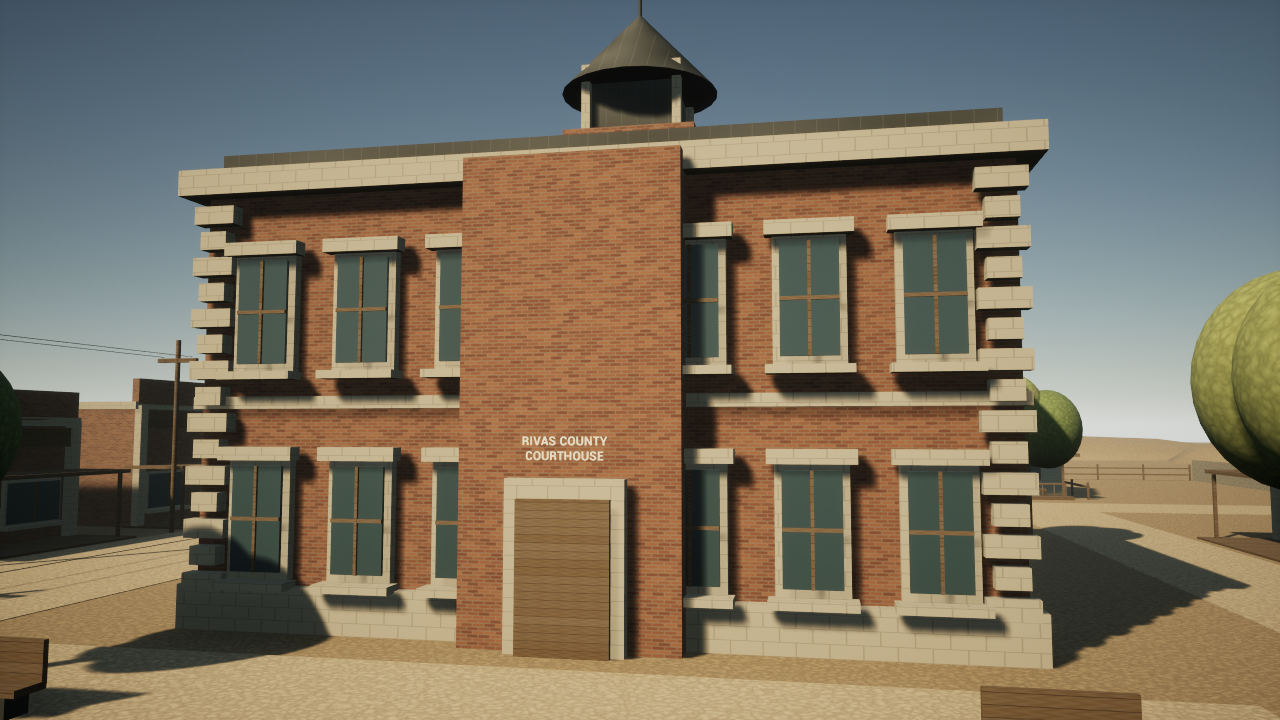
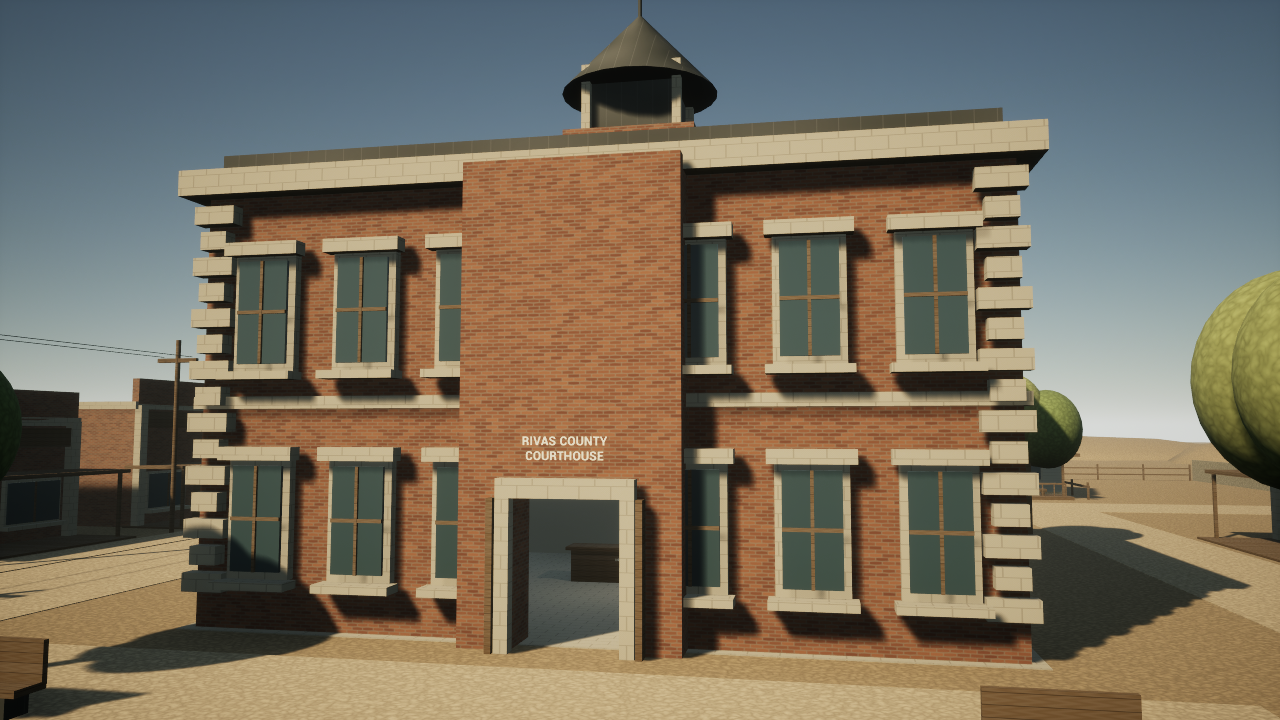
Open courthouse clerk lobby and add Inez report review

diff --git a/Source/CountyLine/World/CLPrototypeGameMode.cpp b/Source/CountyLine/World/CLPrototypeGameMode.cpp
@@ -401,6 +401,33 @@ void ACLPrototypeGameMode::RunSmokeTest()
             Press(EKeys::Escape);
         }
         PC->Case()->Report=BeforePruitt;
+        WalkRoute(FVector(-350,-180,92));WalkRoute(FVector(-850,-180,92));WalkRoute(FVector(-850,-800,92));WalkRoute(FVector(-3900,-800,92));
+        WalkRoute(FVector(-3900,100,92));WalkRoute(FVector(-3900,700,92));WalkRoute(FVector(-3900,1200,92));
+        Check(bRouteClear,TEXT("Courthouse doorway and lobby provide a grounded collision-clear route to the clerk"));
+        // The swept route advances positions without frames; settle the shoulder camera before aiming.
+        const bool bClerkCameraLag=Reed->CameraArm->bEnableCameraLag;Reed->CameraArm->bEnableCameraLag=false;
+        PC->SetControlRotation(FRotator(-5,90,0));Reed->CameraArm->TickComponent(1.f,LEVELTICK_All,nullptr);PC->PlayerCameraManager->UpdateCamera(1.f);
+        Reed->CameraArm->bEnableCameraLag=bClerkCameraLag;
+        Check(PC->ReachableFieldAction()==7,TEXT("Inez is reachable through the normal interaction gate across the counter"));
+        for(const ECLReportStatus Disposition:{ECLReportStatus::Draft,ECLReportStatus::Signed,ECLReportStatus::Held})
+        {
+            FCLReportState Fixture;Fixture.bRead=true;Fixture.FieldNotes.Add(TEXT("ResidentAccount"));
+            if(Disposition!=ECLReportStatus::Draft) Fixture.Submit(Disposition);
+            PC->Case()->Report=Fixture;PC->Interact();
+            Check(PC->IsBookOpen() && PC->IsMoveInputIgnored(),TEXT("Clerk interaction opens a focused report review"));
+            if(Disposition!=ECLReportStatus::Draft) Press(EKeys::Gamepad_FaceButton_Bottom);
+            Check(FCLReportState::StaticStruct()->CompareScriptStruct(&PC->Case()->Report,&Fixture,0),TEXT("Presenting a report to Inez preserves all evidence and the original carbon"));
+            Press(EKeys::Gamepad_FaceButton_Right);
+            Check(!PC->IsBookOpen() && !PC->IsMoveInputIgnored(),TEXT("Controller leaves the clerk counter and restores walking"));
+        }
+        PC->Case()->Report=BeforePruitt;
+        PC->SetControlRotation(FRotator(0,-90,0));Reed->CameraArm->TickComponent(1.f,LEVELTICK_All,nullptr);PC->PlayerCameraManager->UpdateCamera(1.f);
+        Check(!PC->CanReachClerk(),TEXT("Clerk cannot be addressed while looking away"));
+        WalkRoute(FVector(-3900,700,92));
+        Check(!PC->CanReachClerk(),TEXT("Clerk rejects interaction beyond counter range"));
+        WalkRoute(FVector(-3900,100,92));WalkRoute(FVector(-3900,-800,92));WalkRoute(FVector(-850,-800,92));WalkRoute(FVector(-850,-180,92));WalkRoute(FVector(-100,-180,92));WalkRoute(FVector(-20,-110,92));
+        Check(bRouteClear && PC->IsAtDesk() && FCLReportState::StaticStruct()->CompareScriptStruct(&PC->Case()->Report,&BeforePruitt,0),TEXT("Clerk visit returns to the jail desk with the full report unchanged"));
+
 
 
     }
@@ -431,7 +458,7 @@ void ACLPrototypeGameMode::CaptureTownReview()
     const FVector Targets[]={FVector(-3300,1700,250),FVector(-560,0,260),FVector(-4000,-2330,110),FVector(-2700,5650,150),FVector(-3900,1200,650),FVector(-5500,5550,230),FVector(-6550,1400,210),FVector(-950,2400,240),FVector(-4700,-150,85),FVector(-5350,4930,130)};
     const TCHAR* Names[]={TEXT("TownOverview.png"),TEXT("JailFrontage.png"),TEXT("LangLobby.png"),TEXT("ResidentialLane.png"),TEXT("CourthouseDetail.png"),TEXT("HomeDetail.png"),TEXT("WestMarketStreet.png"),TEXT("CourtStreetShops.png"),TEXT("SquareSeating.png"),TEXT("NorthLaneResident.png")};
     const int32 View=TownReviewStep/2;
-    if(View>=UE_ARRAY_COUNT(Positions)+8) {GetWorldTimerManager().ClearTimer(TownReviewTimer);FPlatformMisc::RequestExitWithStatus(false,0);return;}
+    if(View>=UE_ARRAY_COUNT(Positions)+12) {GetWorldTimerManager().ClearTimer(TownReviewTimer);FPlatformMisc::RequestExitWithStatus(false,0);return;}
     if(View>=UE_ARRAY_COUNT(Positions))
     {
         // Capture the actual Slate conversation and Book in the isolated fixture.
@@ -458,18 +485,30 @@ void ACLPrototypeGameMode::CaptureTownReview()
             }
             else if(Page==3) {Press(EKeys::Gamepad_FaceButton_Bottom);PC->Case()->bTypedCopy=true;PC->ShowBook();}
             else if(Page==4) Press(EKeys::Gamepad_RightShoulder);
-            else
+            else if(Page<8)
             {
                 PC->CloseBook();FCLReportState Fixture;Fixture.bRead=true;Fixture.FieldNotes.Add(TEXT("ResidentAccount"));
                 if(Page>5) Fixture.Submit(Page==6?ECLReportStatus::Signed:ECLReportStatus::Held);
                 PC->Case()->Report=Fixture;PC->ShowBook(false,false,true);
             }
+            else
+            {
+                PC->CloseBook();
+                TownReviewCamera->SetActorLocationAndRotation(FVector(-4100,770,185),(FVector(-3900,1400,145)-FVector(-4100,770,185)).Rotation());
+                if(Page>8)
+                {
+                    FCLReportState Fixture;Fixture.bRead=true;Fixture.FieldNotes.Add(TEXT("ResidentAccount"));
+                    if(Page>9) Fixture.Submit(Page==10?ECLReportStatus::Signed:ECLReportStatus::Held);
+                    PC->Case()->Report=Fixture;PC->ShowBook(false,false,false,7);
+                    if(Page>9) Press(EKeys::Gamepad_FaceButton_Bottom);
+                }
+            }
             PC->SetPause(false); // Let the QA capture timer advance; normal dialogue stays paused.
         }
         else
         {
-            const TCHAR* Pages[]={TEXT("ResidentGreeting.png"),TEXT("ResidentAccount.png"),TEXT("ResidentHandwritten.png"),TEXT("ResidentBook.png"),TEXT("ResidentPeople.png"),TEXT("PruittResidentDraft.png"),TEXT("PruittResidentSigned.png"),TEXT("PruittResidentHeld.png")};
-            FScreenshotRequest::RequestScreenshot(FPaths::Combine(FPaths::ProjectSavedDir(),TEXT("Screenshots/TownReview"),Pages[Page]),true,false);
+            const TCHAR* Pages[]={TEXT("ResidentGreeting.png"),TEXT("ResidentAccount.png"),TEXT("ResidentHandwritten.png"),TEXT("ResidentBook.png"),TEXT("ResidentPeople.png"),TEXT("PruittResidentDraft.png"),TEXT("PruittResidentSigned.png"),TEXT("PruittResidentHeld.png"),TEXT("ClerkLobby.png"),TEXT("ClerkDraft.png"),TEXT("ClerkSigned.png"),TEXT("ClerkHeld.png")};
+            FScreenshotRequest::RequestScreenshot(FPaths::Combine(FPaths::ProjectSavedDir(),TEXT("Screenshots/TownReview"),Pages[Page]),Page!=8,false);
         }
         ++TownReviewStep;return;
     }

diff --git a/Source/CountyLine/World/CLPecosBend.cpp b/Source/CountyLine/World/CLPecosBend.cpp
@@ -169,13 +169,62 @@ ACLPecosBend::ACLPecosBend()
     Shape(TEXT("CourthouseWalk"),FVector(-3900,-100,1),FVector(2400,760,4),TEXT("RoadDust"),TEXT("Cube"),false);
     // Reference landmark: brick county courthouse, two storeys and a cupola.
     const FVector Court(-3900,1200,0);
-    Shape(TEXT("CourthouseMass"),Court+FVector(0,0,510),FVector(1800,1400,1020),TEXT("Brick"));
-    Shape(TEXT("CourthouseBase"),Court+FVector(0,0,50),FVector(1860,1460,100),TEXT("Plaster"));
+    Shape(TEXT("CourthouseMass"),Court+FVector(0,0,700),FVector(1800,1400,640),TEXT("Brick"));
+    Shape(TEXT("CourthouseBase"),Court+FVector(0,0,-12),FVector(1860,1460,24),TEXT("Plaster"));
     Shape(TEXT("CourthouseCornice"),Court+FVector(0,0,1020),FVector(1900,1500,60),TEXT("Plaster"));
     Shape(TEXT("CourthouseRoof"),Court+FVector(0,0,1070),FVector(1760,1370,60),TEXT("Iron"));
-    Shape(TEXT("CourtCentralBay"),Court+FVector(0,-735,515),FVector(470,100,1030),TEXT("Brick"));
-    Shape(TEXT("CourtEntryFrame"),Court+FVector(0,-800,175),FVector(250,30,350),TEXT("Plaster"));
-    Shape(TEXT("CourtEntryDoor"),Court+FVector(0,-820,155),FVector(195,16,310),TEXT("Timber"));
+    // Ground-floor lobby replaces the old solid block; the exterior footprint stays put.
+    for(int32 Side:{-1,1})
+    {
+        Shape(FString::Printf(TEXT("CourtLobbySide%d"),Side),Court+FVector(Side*880,0,190),FVector(40,1400,380),TEXT("Brick"));
+        Shape(FString::Printf(TEXT("CourtLobbyFront%d"),Side),Court+FVector(Side*510,-680,190),FVector(780,40,380),TEXT("Brick"));
+        Shape(FString::Printf(TEXT("CourtBayPier%d"),Side),Court+FVector(Side*177.5,-735,175),FVector(115,100,350),TEXT("Brick"));
+        Shape(FString::Printf(TEXT("CourtDoorJamb%d"),Side),Court+FVector(Side*130,-800,155),FVector(30,30,310),TEXT("Plaster"));
+        Shape(FString::Printf(TEXT("CourtOpenDoor%d"),Side),Court+FVector(Side*155,-735,155),FVector(14,170,310),TEXT("Timber"));
+        Shape(FString::Printf(TEXT("CourtInnerSide%d"),Side),Court+FVector(Side*856,0,185),FVector(6,1320,370),TEXT("Plaster"),TEXT("Cube"),false);
+        Shape(FString::Printf(TEXT("CourtLobbyBench%d"),Side),Court+FVector(Side*650,-200,45),FVector(80,300,14),TEXT("Timber"));
+        for(int32 Leg:{-1,1}) Shape(FString::Printf(TEXT("CourtLobbyBenchLeg%d_%d"),Side,Leg),Court+FVector(Side*650,-200+Leg*115,20),FVector(60,14,40),TEXT("Timber"));
+    }
+    Shape(TEXT("CourtCentralBay"),Court+FVector(0,-735,685),FVector(470,100,670),TEXT("Brick"));
+    Shape(TEXT("CourtDoorHeader"),Court+FVector(0,-800,330),FVector(290,30,40),TEXT("Plaster"));
+    Shape(TEXT("CourtLobbyHeader"),Court+FVector(0,-680,345),FVector(240,40,70),TEXT("Brick"));
+    Shape(TEXT("CourtLobbyBack"),Court+FVector(0,680,190),FVector(1800,40,380),TEXT("Brick"));
+    Shape(TEXT("CourtInnerBack"),Court+FVector(0,656,185),FVector(1700,6,370),TEXT("Plaster"),TEXT("Cube"),false);
+    Shape(TEXT("CourtLobbyCeiling"),Court+FVector(0,0,377),FVector(1760,1360,6),TEXT("Plaster"),TEXT("Cube"),false);
+    Shape(TEXT("CourtCounter"),Court+FVector(0,100,46),FVector(440,80,92),TEXT("Timber"));
+    Shape(TEXT("CourtCounterTop"),Court+FVector(0,100,97),FVector(470,96,10),TEXT("Timber"));
+    Shape(TEXT("CourtCounterPaper"),Court+FVector(-120,75,103),FVector(35,45,2),TEXT("PaperLabel"),TEXT("Cube"),false);
+    Shape(TEXT("CourtStamp"),Court+FVector(-70,85,111),FVector(12,12,16),TEXT("Brass"),TEXT("Cube"),false);
+    Sign(TEXT("ClerkCounterName"),TEXT("INEZ PADILLA  /  COUNTY CLERK"),Court+FVector(0,47,68),-90,13);
+    Sign(TEXT("ClerkOfficeLabel"),TEXT("COUNTY CLERK\nREPORTS AND MINUTES"),Court+FVector(0,648,265),-90,22);
+    auto* LobbyLight=CreateDefaultSubobject<UPointLightComponent>(TEXT("CourtLobbyLight"));
+    LobbyLight->SetupAttachment(RootComponent);LobbyLight->SetRelativeLocation(Court+FVector(0,-80,325));
+    LobbyLight->SetIntensity(1800);LobbyLight->SetAttenuationRadius(1450);LobbyLight->SetLightColor(FLinearColor(1.f,.88f,.72f));LobbyLight->SetMobility(EComponentMobility::Movable);
+    Shape(TEXT("CourtCeilingLamp"),Court+FVector(0,-80,345),FVector(32,32,20),TEXT("Linen"),TEXT("Sphere"),false);
+    // Original static proxy, approximately 162 cm; unique animated character art comes later.
+    const FVector Inez= Court+FVector(0,200,0);
+    ClerkCollision=CreateDefaultSubobject<UCapsuleComponent>(TEXT("ClerkCollision"));
+    ClerkCollision->SetupAttachment(RootComponent);ClerkCollision->SetRelativeLocation(Inez+FVector(0,0,81));
+    ClerkCollision->InitCapsuleSize(28,81);ClerkCollision->SetCollisionProfileName(TEXT("BlockAllDynamic"));
+    auto Figure=[this,Inez](const TCHAR* Name,FVector Offset,FVector Size,const TCHAR* Material,const TCHAR* Mesh=TEXT("Sphere"))
+    {return Shape(Name,Inez+Offset,Size,Material,Mesh,false);};
+    Figure(TEXT("InezSkirt"),FVector(0,0,53),FVector(48,37,90),TEXT("Trouser"),TEXT("Cone"));
+    Figure(TEXT("InezBlouse"),FVector(0,0,110),FVector(42,28,48),TEXT("Linen"));
+    Figure(TEXT("InezNeck"),FVector(0,0,139),FVector(10,10,13),TEXT("Skin"));
+    Figure(TEXT("InezHead"),FVector(0,0,149),FVector(19,18,25),TEXT("Skin"));
+    Figure(TEXT("InezHair"),FVector(0,3,154),FVector(20,17,17),TEXT("Hair"));
+    Figure(TEXT("InezBun"),FVector(0,12,148),FVector(12,10,12),TEXT("Hair"));
+    Figure(TEXT("InezNose"),FVector(0,-9,148),FVector(4,5,6),TEXT("Skin"));
+    Figure(TEXT("InezMouth"),FVector(0,-8.5,142),FVector(6,1.5,1.5),TEXT("Mouth"));
+    for(int32 Side:{-1,1})
+    {
+        Figure(*FString::Printf(TEXT("InezEye%d"),Side),FVector(Side*4,-8,152),FVector(3,2,2),TEXT("EyeWhite"));
+        Figure(*FString::Printf(TEXT("InezIris%d"),Side),FVector(Side*4,-9,152),FVector(1.5,1,1.5),TEXT("Iris"));
+        Figure(*FString::Printf(TEXT("InezSleeve%d"),Side),FVector(Side*24,-5,111),FVector(13,15,38),TEXT("Linen"));
+        Figure(*FString::Printf(TEXT("InezHand%d"),Side),FVector(Side*24,-12,92),FVector(8,11,13),TEXT("Skin"));
+        Figure(*FString::Printf(TEXT("InezShoe%d"),Side),FVector(Side*10,-4,6),FVector(12,25,12),TEXT("Leather"));
+    }
+
     Shape(TEXT("CourtFloorBand"),Court+FVector(0,0,510),FVector(1830,1430,28),TEXT("Plaster"),TEXT("Cube"),false);
     for(int32 Side:{-1,1})
     {

diff --git a/Source/CountyLine/UI/SCLCountyBook.cpp b/Source/CountyLine/UI/SCLCountyBook.cpp
@@ -164,10 +164,23 @@ void SCLCountyBook::Rebuild(int32 FocusOverride)
     if(FieldAction>=0)
     {
         const bool bInspect=Owner->IsInspecting();
-        Line(FieldAction==6?TEXT("PECOS BEND / NORTH LANE"):FieldAction==5?TEXT("PECOS BEND / LANG'S BOARDINGHOUSE"):TEXT("BEND LATERAL / FIELD STUDY"),18,true);
-        const TCHAR* Titles[]={TEXT("Back to Pecos Bend"),TEXT("Salazar's account"),TEXT("A bottle by the bank"),TEXT("The ditch bank"),TEXT("The road to Bend Lateral"),TEXT("Rooms and board"),TEXT("A River Road account")};
+        Line(FieldAction==7?TEXT("COURTHOUSE / COUNTY CLERK"):FieldAction==6?TEXT("PECOS BEND / NORTH LANE"):FieldAction==5?TEXT("PECOS BEND / LANG'S BOARDINGHOUSE"):TEXT("BEND LATERAL / FIELD STUDY"),18,true);
+        const TCHAR* Titles[]={TEXT("Back to Pecos Bend"),TEXT("Salazar's account"),TEXT("A bottle by the bank"),TEXT("The ditch bank"),TEXT("The road to Bend Lateral"),TEXT("Rooms and board"),TEXT("A River Road account"),TEXT("The clerk's counter")};
         Line(Titles[FieldAction],bInspect?32:40);
-        if(FieldAction==6)
+        if(FieldAction==7)
+        {
+            if(Report.Status==ECLReportStatus::Draft || ConversationStep>0)
+            {
+                Line(Report.ClerkResponse(),24);
+                Line(TEXT("Reviewing the carbon does not change the report or save the Book. Write the date at the jail desk."),19,true);
+            }
+            else
+            {
+                Line(TEXT("INEZ PADILLA\nLet me see the carbon, Sheriff. We will keep what you signed separate from what you learned afterward."),24);
+                Page->AddSlot().AutoHeight()[Button(Report.Status==ECLReportStatus::Signed?TEXT("PRESENT THE SIGNED REPORT"):TEXT("PRESENT THE HELD REPORT"),[this]{ConversationStep=1;Rebuild(0);})];
+            }
+        }
+        else if(FieldAction==6)
         {
             if(Report.FieldNotes.Contains(TEXT("ResidentAccount")))
             {
@@ -421,6 +434,7 @@ void SCLCountyBook::Rebuild(int32 FocusOverride)
         Line(TEXT("PLACES ENTERED IN THE BOOK"),20,true);
         for(FName Id : {FName(TEXT("JailOffice")),FName(TEXT("CourtStreet")),FName(TEXT("LangHouse")),FName(TEXT("CountyRoad")),FName(TEXT("BendLateral"))})
             if(State->World.IsLocationDiscovered(Id)) Line(Id==TEXT("JailOffice")?TEXT("Jail office / Pecos Bend"):Id==TEXT("CourtStreet")?TEXT("Court Street / courthouse square"):Id==TEXT("LangHouse")?TEXT("Lang's / rooms and board"):Id==TEXT("CountyRoad")?TEXT("Road to Bend Lateral"):TEXT("Bend Lateral / irrigation bank"),22);
+        Line(TEXT("The courthouse south entrance opens from the square. Inez Padilla is at the clerk counter inside."),20);
         Line(TEXT("North Lane runs behind the courthouse and shops. The resident is at the west house, north of the market row."),20);
         Line(TEXT("Discoveries are kept when you write the date at the desk. This first route is a compact study of the county."),18,true);
     }
@@ -430,7 +444,7 @@ void SCLCountyBook::Rebuild(int32 FocusOverride)
         if(Report.FieldNotes.Contains(TEXT("ResidentAccount"))) Line(TEXT("RIVER ROAD RESIDENT / Met on North Lane\nSays families use the bank path to reach fields. Did not witness the death. Account entered with the Bend Lateral notes."));
         Line(TEXT("SAM REED  /  Acting Sheriff\nThe name on the door is mine, for now."));
         Line(TEXT("PRUITT  /  Deputy\nWaiting in the jail office. He brought the report to my attention."));
-        Line(TEXT("INEZ PADILLA  /  County Clerk\nShe will see the carbon before Helm does."));
+        Line(TEXT("INEZ PADILLA  /  County Clerk\nAt the courthouse clerk counter. She reviews the carbon before Helm sees it."));
         Line(TEXT("SALAZAR  /  Commissioner\nRiver Road. He found the man at the lateral."));
     }
     else

diff --git a/Source/CountyLine/Player/CLPlayerController.cpp b/Source/CountyLine/Player/CLPlayerController.cpp
@@ -43,7 +43,7 @@ void ACLPlayerController::BeginPlay()
         +SOverlay::Slot().HAlign(HAlign_Center).VAlign(VAlign_Bottom).Padding(24,24,24,88)
         [SNew(SBorder).Padding(14).BorderBackgroundColor(FLinearColor(0.035f,0.03f,0.02f,0.9f))
             .Visibility_Lambda([this]{return (bPromptAvailable||bDeputyAvailable||ReachableFieldAction()>=0)&&!IsBookOpen()?EVisibility::HitTestInvisible:EVisibility::Collapsed;})
-            [SNew(STextBlock).Text_Lambda([this]{const int32 Field=ReachableFieldAction();if(Field>=0) {const TCHAR* Names[]={TEXT("Return to the jail office"),TEXT("Speak with Salazar"),TEXT("Inspect the bottle"),TEXT("Examine the ditch bank"),TEXT("Read the road directions"),TEXT("Read the guest register"),TEXT("Speak with the River Road resident")};return FText::FromString(FString(TEXT("[ E / A ]   "))+Names[Field]);}return FText::FromString(bDeputyAvailable?TEXT("[ E / A ]   Talk   ·   Deputy Pruitt"):TEXT("[ E / A ]   Read   ·   Reed's report"));}).Font(FCoreStyle::GetDefaultFontStyle("Regular",24)).ColorAndOpacity(FLinearColor(0.95f,0.86f,0.65f))]]
+            [SNew(STextBlock).Text_Lambda([this]{const int32 Field=ReachableFieldAction();if(Field>=0) {const TCHAR* Names[]={TEXT("Return to the jail office"),TEXT("Speak with Salazar"),TEXT("Inspect the bottle"),TEXT("Examine the ditch bank"),TEXT("Read the road directions"),TEXT("Read the guest register"),TEXT("Speak with the River Road resident"),TEXT("Speak with Inez Padilla")};return FText::FromString(FString(TEXT("[ E / A ]   "))+Names[Field]);}return FText::FromString(bDeputyAvailable?TEXT("[ E / A ]   Talk   ·   Deputy Pruitt"):TEXT("[ E / A ]   Read   ·   Reed's report"));}).Font(FCoreStyle::GetDefaultFontStyle("Regular",24)).ColorAndOpacity(FLinearColor(0.95f,0.86f,0.65f))]]
         +SOverlay::Slot().HAlign(HAlign_Center).VAlign(VAlign_Bottom).Padding(24)
         [SNew(STextBlock).Text(FText::FromString(TEXT("WASD / LS  Walk     Mouse / RS  Look\nE / A  Interact     Tab / View  Book     Esc / Menu  Pause"))).Justification(ETextJustify::Center).Font(FCoreStyle::GetDefaultFontStyle("Regular",20)).ShadowOffset(FVector2D(1,1)).ColorAndOpacity(FLinearColor(0.93f,0.88f,0.77f))];
     GEngine->GameViewport->AddViewportWidgetContent(HUD.ToSharedRef(),0);
@@ -133,6 +133,16 @@ bool ACLPlayerController::CanReachResident() const
     FHitResult Hit;
     FCollisionQueryParams Params(SCENE_QUERY_STAT(ResidentInteraction),false,GetPawn());
     return !GetWorld()->LineTraceSingleByChannel(Hit,Eye,Target,ECC_Visibility,Params) || Hit.GetComponent()==Town->ResidentCollision;
+}
+
+bool ACLPlayerController::CanReachClerk() const
+{
+    if(!Town.IsValid() || !GetPawn()) return false;
+    FVector Eye;FRotator View;GetPlayerViewPoint(Eye,View);
+    const FVector Target=Town->ClerkLocation();
+    if(!WithinInteractionGate(GetPawn()->GetActorLocation(),Eye,View.Vector(),Target)) return false;
+    FHitResult Hit;FCollisionQueryParams Params(SCENE_QUERY_STAT(ClerkInteraction),false,GetPawn());
+    return !GetWorld()->LineTraceSingleByChannel(Hit,Eye,Target,ECC_Visibility,Params) || Hit.GetComponent()==Town->ClerkCollision;
 }
 
 FString ACLPlayerController::ObjectiveText() const
@@ -239,6 +249,7 @@ int32 ACLPlayerController::ReachableFieldAction() const
 {
     if(!GetPawn() || !Bend.IsValid()) return -1;
     FVector Eye; FRotator View; GetPlayerViewPoint(Eye,View);
+    if(CanReachClerk()) return 7;
     if(CanReachResident()) return 6;
     if(Town.IsValid() && WithinInteractionGate(GetPawn()->GetActorLocation(),Eye,View.Vector(),Town->RegisterLocation()))
     {

diff --git a/Source/CountyLine/Paper/CLCaseState.cpp b/Source/CountyLine/Paper/CLCaseState.cpp
@@ -101,6 +101,20 @@ bool FCLReportState::FileFollowup(ECLFollowupOutcome Outcome)
     SupplementFacts=FollowupFacts;FollowupOutcome=Outcome;return true;
 }
 
+FString FCLReportState::ClerkResponse() const
+{
+    if(Status==ECLReportStatus::Draft)
+        return TEXT("INEZ PADILLA\nThis report is unsigned, Sheriff. Read it at the jail desk, choose what belongs in it, then sign it or hold it for inquiry. I need your disposition before I can review the carbon.");
+    FString Reply=Status==ECLReportStatus::Signed?
+        TEXT("INEZ PADILLA\nSigned by S. Reed. That is the disposition on this carbon. A signature records what you put forward; it does not settle the cause of death."):
+        TEXT("INEZ PADILLA\nHeld for inquiry. The carbon records that you left this matter open. The unanswered questions belong with it, not under a different closing line.");
+    Reply+=FString::Printf(TEXT("\n\nThis copy has %d included fact(s) and %d omitted. The original wording stays as submitted."),IncludedFacts.Num(),OmittedFacts.Num());
+    if(FieldNotes.Contains(TEXT("ResidentAccount")))
+        Reply+=IncludedFacts.Contains(TEXT("ResidentAccount"))?TEXT(" The resident's account is included."):OmittedFacts.Contains(TEXT("ResidentAccount"))?TEXT(" The resident's account was omitted; your Book still keeps it."):TEXT(" The resident's later account is in your Book, not on this carbon.");
+    if(FollowupOutcome!=ECLFollowupOutcome::None) Reply+=TEXT(" Your separate follow-up entry leaves this original carbon intact.");
+    return Reply;
+}
+
 FString FCLReportState::PruittResidentResponse() const
 {
     const FName Account(TEXT("ResidentAccount"));

diff --git a/Source/CountyLine/Tests/CLClerkTests.cpp b/Source/CountyLine/Tests/CLClerkTests.cpp
@@ -1,0 +1,26 @@
+#if WITH_DEV_AUTOMATION_TESTS
+#include "Misc/AutomationTest.h"
+#include "Paper/CLCaseState.h"
+IMPLEMENT_SIMPLE_AUTOMATION_TEST(FCLClerkReviewTest,"CountyLine.Report.ClerkReview",EAutomationTestFlags::EditorContext|EAutomationTestFlags::EngineFilter)
+bool FCLClerkReviewTest::RunTest(const FString& Parameters)
+{
+    FCLReportState Draft;
+    TestTrue(TEXT("Clerk refuses unsigned report"),Draft.ClerkResponse().Contains(TEXT("unsigned")));
+    for(const ECLReportStatus Status:{ECLReportStatus::Signed,ECLReportStatus::Held})
+    for(const bool bInclude:{false,true})
+    for(const bool bBefore:{false,true})
+    {
+        FCLReportState R;R.bRead=true;R.bIncludeFieldNotes=bInclude;
+        if(bBefore) R.FieldNotes.Add(TEXT("ResidentAccount"));
+        TestTrue(TEXT("Report submits"),R.Submit(Status));
+        R.FieldNotes.AddUnique(TEXT("ResidentAccount"));
+        const FCLReportState Before=R;
+        const FString Reply=R.ClerkResponse();
+        TestTrue(TEXT("Clerk recognizes disposition"),Reply.Contains(Status==ECLReportStatus::Signed?TEXT("Signed by S. Reed"):TEXT("Held for inquiry")));
+        TestTrue(TEXT("Clerk reads the actual carbon"),Reply.Contains(bBefore?(bInclude?TEXT("account is included"):TEXT("account was omitted")):TEXT("later account")));
+        TestTrue(TEXT("Repeated review is stable"),Reply==R.ClerkResponse());
+        TestTrue(TEXT("Review changes no report field"),FCLReportState::StaticStruct()->CompareScriptStruct(&R,&Before,0));
+    }
+    return true;
+}
+#endif

diff --git a/Scripts/draw_town_layout.py b/Scripts/draw_town_layout.py
@@ -35,7 +35,7 @@ for name, color in [('TownGround','#e1d2ae'), ('ResidentialGround','#e1d2ae'), (
 court = numbers(re.search(r'const FVector Court\(([^)]+)\)', source)[1])
 court_size = numbers(re.search(r'Shape\(TEXT\("CourthouseMass"\).*?FVector\(([^)]+)\),TEXT\("Brick"\)', source)[1])
 lang, lang_size = shape('LangFloor')
-buildings = [('Courthouse','Courthouse (exterior)',court[0],court[1],court_size[0],court_size[1]),
+buildings = [('Courthouse','Courthouse (clerk lobby)',court[0],court[1],court_size[0],court_size[1]),
              ('Jail','Jail office',0,0,1120,900),
              ("Lang","Lang’s (lobby open)",lang[0],lang[1],lang_size[0],lang_size[1])]
 fronts = {'Courthouse': (0,-1), 'Jail': (-1,0), 'Lang': (0,1)}

diff --git a/Source/CountyLine/World/CLPecosBend.h b/Source/CountyLine/World/CLPecosBend.h
@@ -13,6 +13,8 @@ public:
     FVector ResidentLocation() const { return GetActorTransform().TransformPosition(FVector(-5350,4930,130)); }
     UPROPERTY() TObjectPtr<class UCapsuleComponent> ResidentCollision;
     UPROPERTY() TObjectPtr<class USkeletalMeshComponent> ResidentMesh;
+    FVector ClerkLocation() const { return GetActorTransform().TransformPosition(FVector(-3900,1400,145)); }
+    UPROPERTY() TObjectPtr<class UCapsuleComponent> ClerkCollision;
     FVector RegisterLocation() const { return FVector(-3900,-2200,107); }
     UPROPERTY() TObjectPtr<class UStaticMeshComponent> GuestRegister;
 private:

diff --git a/Source/CountyLine/Paper/CLCaseState.h b/Source/CountyLine/Paper/CLCaseState.h
@@ -48,6 +48,7 @@ struct FCLReportState
     static FString FollowupFinding(ECLFollowupLead Lead);
     FString FollowupObjective() const;
     FString PruittResidentResponse() const;
+    FString ClerkResponse() const;
     FString FollowupConsequence() const;
     FString ClosingText(int32 Index) const;
     bool Submit(ECLReportStatus NewStatus);

diff --git a/Source/CountyLine/Player/CLPlayerController.h b/Source/CountyLine/Player/CLPlayerController.h
@@ -17,6 +17,7 @@ public:
     bool CanReachReport() const;
     bool CanReachDeputy() const;
     bool CanReachResident() const;
+    bool CanReachClerk() const;
     FString ObjectiveText() const;
     bool IsAtDesk() const;
     void Interact();

diff --git a/Docs/PECOS_BEND_TOWN.md b/Docs/PECOS_BEND_TOWN.md
@@ -17,7 +17,7 @@ The reference can be recreated as a navigable Unreal environment through authore
 - North Lane extends Court Street north past the courthouse to four modest homes. Explore the lane, porches and rear yards; houses and sheds have closed interiors. Brick, plaster and timber exteriors, pitched roofs, gardens and washing lines establish the first residential block.
 
 - Exit the jail and follow the road west to Court Street and the courthouse square. The road east still leads continuously to Bend Lateral.
-- The brick courthouse, cupola, five storefront exteriors, street poles, trees and signed jail frontage establish the first town silhouette. The courthouse and shops have closed interiors.
+- The brick courthouse, cupola, five storefront exteriors, street poles, trees and signed jail frontage establish the first town silhouette. The courthouse ground-floor clerk lobby is open; upper rooms and shops remain closed.
 - Lang's boardinghouse is south of the square. Walk through its open doorway into the ground-floor lobby, then inspect the guest register at the counter with E or controller A. B/Escape or the return button restores movement.
 - Court Street and Lang's are recorded on the Book's Map page when Reed reaches them while grounded. Both have safe checkpoints and are persisted with the existing world state when the date is written at the jail desk.
 
@@ -37,8 +37,10 @@ Runtime checks cover collision-swept travel from the jail to the square, entry i
 
 Verified Unreal captures: [town overview](Verification/PecosBend/TownOverview.png), [residential lane](Verification/PecosBend/ResidentialLane.png), [jail frontage](Verification/PecosBend/JailFrontage.png), and [Lang's lobby](Verification/PecosBend/LangLobby.png).
 
-For a fresh capture, create `Saved/Screenshots/TownReview`, then launch the editor executable with the project and `/Game/Maps/L_JailOffice -game -windowed -ResX=1440 -ResY=900 -nosplash -CLSmokeTest -CLTownReview`. After the smoke checks pass, the game takes ten fixed-camera screenshots and eight resident/Book/Pruitt screenshots, then exits. This development-only mode does not use the player's save slot.
+For a fresh capture, create `Saved/Screenshots/TownReview`, then launch the editor executable with the project and `/Game/Maps/L_JailOffice -game -windowed -ResX=1440 -ResY=900 -nosplash -CLSmokeTest -CLTownReview`. After the smoke checks pass, the game takes ten fixed-camera screenshots and twelve resident/Book/Pruitt/clerk screenshots, then exits. This development-only mode does not use the player's save slot.
 
 The initial town pass passed 10 automation suites and 68 runtime smoke assertions. Subsequent jogging and residential work expands that coverage; see [VERIFICATION.md](VERIFICATION.md) for current results and limitations.
 
 The first North Lane resident conversation is documented in [RESIDENT_ENCOUNTER.md](RESIDENT_ENCOUNTER.md).
+
+The south courthouse entrance and clerk counter are now playable; see [COURTHOUSE_CLERK.md](COURTHOUSE_CLERK.md). Upper rooms remain closed.

diff --git a/Docs/VERIFICATION.md b/Docs/VERIFICATION.md
@@ -179,3 +179,13 @@ Pruitt now opens with a response to the recorded resident account. Draft, signed
 CountyLineEditor Win64 Development built successfully with -NoPCH -NoUBA -NoHotReloadFromIDE. Scripts/Test-Prototype.ps1 passed all 17 required Unreal suites, 10 map tests and 102 runtime checks, with zero automation warnings/errors. Expanded resident coverage checks absent accounts, draft guidance, both submitted dispositions, inclusion/omission/later discovery, repeatability and whole-report immutability. Runtime UI checks open all three dispositions, leave with controller B, and access other county business before leaving with Escape. All fixtures bypass the real save slot; physical-controller hardware and packaged-build tests were not performed.
 
 The offscreen rendered review also passed all 102 runtime checks. Draft, signed and held dialogue pages were visually reviewed at 1280 by 720; their captures are in Docs/Verification/PecosBend/PruittResident*.png. The desktop module is rebuilt and existing saved resident accounts require no replay or migration.
+
+## Courthouse clerk lobby - 20 September 2026
+
+Opened the courthouse ground floor while keeping the existing footprint, streets and safe checkpoints. The lobby has a level doorway route, seating, a lit clerk counter and an original static Inez proxy. Signed and held reports can be presented for an immutable carbon review; drafts are directed back to the jail desk. Inez distinguishes resident accounts included, omitted or learned later. No receipt, filing state, hearing, autosave or schema change is introduced. The development map and Book directions identify the open lobby.
+
+CountyLineEditor Win64 Development built with -NoPCH -NoUBA -NoHotReloadFromIDE. Scripts/Test-Prototype.ps1 passed all 18 Unreal suites, 10 map tests and 116 runtime checks with no automation warnings/errors. The new clerk suite checks disposition, carbon membership, repeated review and whole-report immutability. Runtime checks sweep the actual entrance/counter/return route, use normal interaction gating, present all three report states through controller input, and check movement restoration and unchanged report data.
+
+The first interaction test failed because a route advanced without frames left the lagged camera aimed beside Inez. A diagnostic confirmed a clear trace to ClerkCollision but a failed view-angle gate. The fixture now settles its camera before checking the counter; production camera and interaction limits are unchanged. Tests bypass the player's save slot. The static character is temporary art; voice, animated character work, upper rooms, formal filing and packaged-build/physical-controller tests remain outside this pass.
+
+The final offscreen review passed all 116 runtime checks. Reviewed the open entrance, clerk lobby and all three disposition pages at 1280 by 720. Captures are backed up in Docs/Verification/PecosBend; the desktop module is rebuilt.
